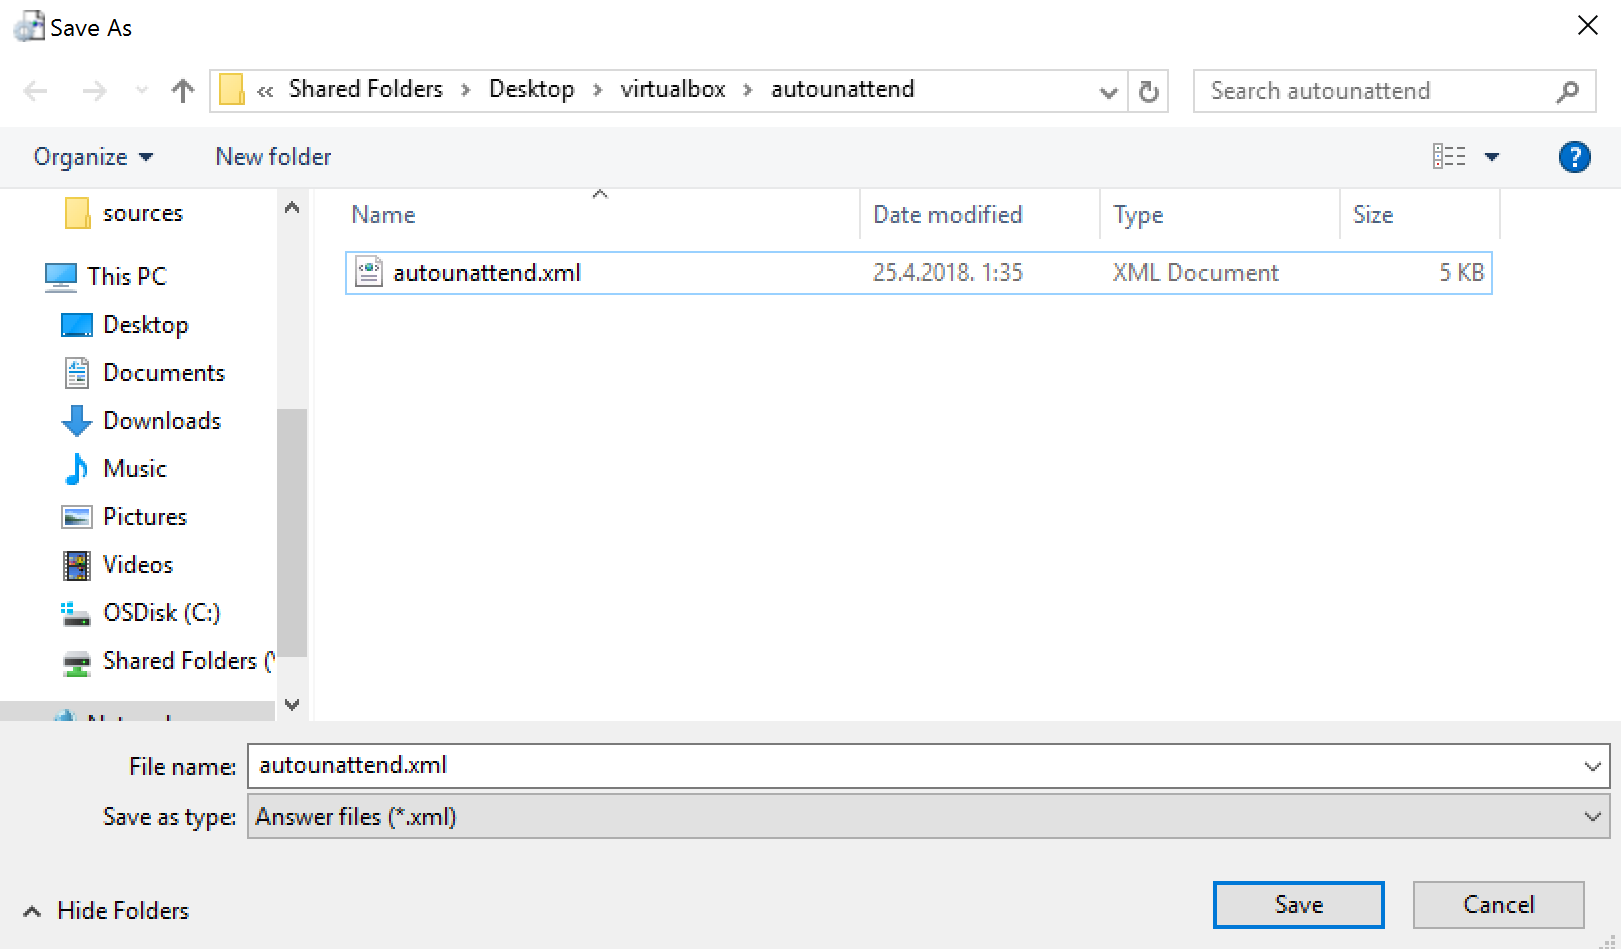
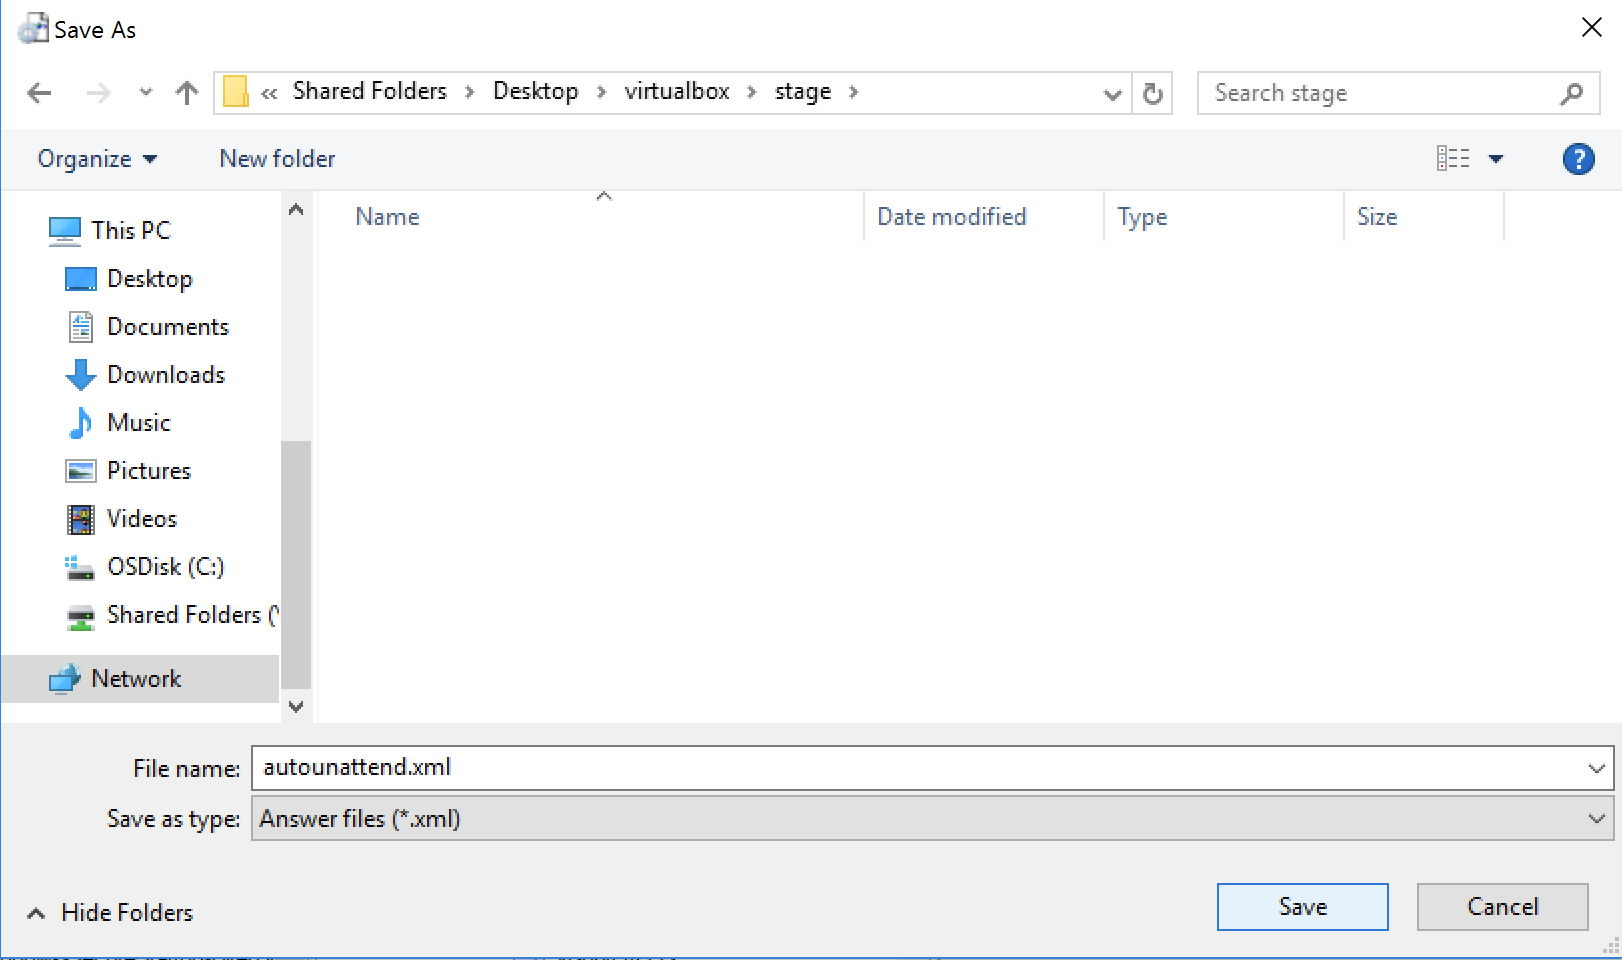
Windows documentation

diff --git a/kubam/configure/windows.md b/kubam/configure/windows.md
@@ -7,11 +7,11 @@ KUBAM can be used to deploy Windows. We support
 
 At this time KUBAM requires a decent amount of manual steps to install Windows.  We are working to make this easier but we still hope this method sucks less than other installers that you are using.  
 
-## Windows Server 2016
+# Windows Server 2016
 
 To install Windows Server 2016, we will use unattended instalation feature. That will give us zero-touch deployment. We will use original Windows Server 2016 instalation iso in combination with "answer file". To prepare and create answer file (__autounattend.xml__) we are using __Windows System Image Manager (SIM)__ tool from __Windows Assessment and Deployment Kit (ADK)__. Preparation of the answer file should be done on Windows workstation or server. Answer file will be packed into .img file and mounted as additional drive in UCS vMedia Policy.
 
-### Download and install latest Windows ADK
+## Download and install latest Windows ADK
 
 Windows ADK can be downloaded from [Microsoft website](https://docs.microsoft.com/en-us/windows-hardware/get-started/adk-install).
 
@@ -21,11 +21,13 @@ After ADK is downloaded we will start installation on the local machine. We just
 
 ![img](../img/ADK setup.png)
 
-### Creating "answer file" (autounattend.xml)
+## Creating "answer file" (autounattend.xml)
 
 To be able to generate answer file, we need to copy content of Windows Server 2016 instalation image (.iso) to some folder on our workstation (or server). We can mount it to virtual optical drive, or extract it using archiver. In this example we are using [Windows Server 2016 Evaluation](https://www.microsoft.com/en-us/evalcenter/evaluate-windows-server-2016) (14393.0.161119-1705.RS1\_REFRESH\_SERVER\_EVAL\_X64FRE\_EN-US.ISO), and unpacking ith with archiver.
 
 ![img](../img/ISO extraction.png)
+
+We will not use extracted files after answer file creation, just original .iso image.
 
 After we have instalation files on our workstation, we will run Windows System Image Manager that we have installed in previous step.
 
@@ -141,7 +143,7 @@ We are configuring __AutoLogon__ under same section that will run 3 times to run
 ![img](../img/autologon.png)
 
 
-Now we have ready answer file, and we are going to save it as __autounattend.xml__. 
+Now we have ready answer file, and we are going to save it as __autounattend.xml__ in our working folder (stage). 
 ![img](../img/autounattend.png)
 
 Our answer file now looks like this:
@@ -264,10 +266,136 @@ Our answer file now looks like this:
 
 You can use this file as a template, without need to do compleate procedure, just change values according to your preferred settings.
 
+## Downloading drivers
+
 Next step is to [download UCS drivers for Windows](https://software.cisco.com/download/home/283853163/type/283853158/release/3.2%25283a%2529) from Cisco, in this example we are installing UCS B-series servers, so we are downloading drivers for UCS B.
 
 ![img](../img/UCS Drivers.png)
 
+## Packing answer file and drivers
+
+Create new folder named __drivers__ in working folder. Copy and extract downloaded .iso file (we were using 7-zip here) into working folder.
+
+![img](../img/extract drivers.png)
+
+Delete __Video, release.txt, tag.txt and driver .iso__ file from __drivers__ folder.
+
+![img](../img/delete video.png)
+
+Go back to working folder, select __drivers__ filder and __autoattend.xml__ file and pack them to __stage.zip__
+
+![img](../img/add to zip.png) 
+
+[Download](https://winscp.net/eng/download.php) and install WinScp, and create new session to connect to Kubam server using SCP protocol. Open __/root/kubam__ folder in right pane and our working folder (stage) in left pane.
+
+![img](../img/winscp.png)
+
+Upload __stage.zip__ to kubam server into __/root/kubam__ folder (drag and drop).
+
+![img](../img/upload stage.png)
+
+Log into kubam server and navigate to /root/kubam folder. There should be __stage.zip__ file. Using bellow commands we will create __win2016.img__ file containing drivers and answer file. 
+
+```
+unzip -qq stage.zip
+rm -f stage.zip
+dd if=/dev/zero ibs=1024 count=300000 of=win2016.img
+mkfs -t fat win2016.img  
+mkdir mnt
+mount -o loop win2016.img mnt
+mv -t mnt autounattend.xml drivers
+umount mnt
+rm -Rf mnt
+```
+After running commands, you should have similar output on kubam server.
+
+![img](../img/unpack_pack.png)
+
+We will copy __win2016.img__ back to our workstation.
+
+![img](../img/win2016img.png)
+
+Next step is to copy created __win2016.img__ and windows 2016 installation image (14393.0.161119-1705.RS1\_REFRESH\_SERVER\_EVAL\_X64FRE\_EN-US.ISO) to network share wich will be available for UCS Manager. First we will rename .iso image to __win_server_2016.iso__ for convenience. 
+
+![img](../img/copytonas.png)
+
+## Add installation files to vMedia Policy
+
+In UCS manager create Vmedia Policy and set it according to pictures bellow, pointing __win_server_2016.iso__ and __win2016.img__ to shared location.
+
+![img](../img/vMedia1.png)
+
+![img](../img/vMedia2.png)
+
+![img](../img/vMedia3.png)
+
+Start server, open KVM, take popcorns and enjoj:). 
+Now you have Zero-Touch Windows 2016 installation for your servers!
+
+![img](../img/kvm.png)
+
+And after few minutes you can log on with username (administrator) and password (Pa$$w0rd) set in __autounattend.xml__ file. 
+
+# Windows Server 2012 R2
+
+KUBAM requires that you stage an install image on an existing 'Stage' Server.  The Stage server should be running the same version of Windows that you would like to install.  These instructions are for Windows Server 2012 R2 Datacenter.
+
+The stage server can be a virtual machine or physical machine.  If it is a physical machine it does not need to be running on Cisco hardware. 
+
+The following should be performed on the Stage Server:
+
+## Download Windows ADK
+
+The Windows Assessment and Deployment Kit (ADK) is required to build WinPE images that KUBAM can use.  [Download this from Microsoft]().
+
+Install using the default directory.
+
+![img](../img/adk.png)
+
+We only require the two services to be installed:
+
+* Deployment Tools
+* Windows PE
+
+![img](../img/adk2.png)
+
+
+While this installs about 3 GB, have a look at one of our [developers bee keeping websites](http://www.opg-brlekovic.hr/).  If you happen to be in Croatia you can order some honey.
+
+## Download Cisco Drivers
+
+The latest Cisco device drivers can be downloaded from Cisco's Support site. URLs seem to change from time to time, but was last available [here](https://software.cisco.com/download/home/283853163/type). If that link is dead, go to [https://cisco.com/support](https://cisco.com/support) and in the Downloads menu type __UCS B-Series Blade Server Software__ the main Cisco Site, then download the drivers.  It seems to be a 1GB file.  
+
+Copy the Windows VNIC drivers to the Windows server. Put it in the ```C:\Drivers``` directory:
+
+```
+mkdir c:\drivers
+```
+
+You should then have the VNIC drivers in this directory
+
+```
+enic6x64.cat
+enic6x64.inf
+enic6x64.sys
+```
+
+## Run ```winkubam.bat``` 
+
+With the two prereqs in place you are ready to generate the WinPE image that will be used for the boot process. 
 
 
 
+## Manually Creating Autoinstallation Files
+
+UCS needs a hard drive image that includes the ```autounattend.xml``` file.  This image can be created using: 
+
+```
+dd if=/dev/zero of=kube0${i}.img bs=1M count=1
+mkfs -t fat win.img
+mkdir tmpmnt
+mount -o loop win.img tmpmnt
+## copy files in
+umount tmpmnt
+rmdir tmpmnt
+```
